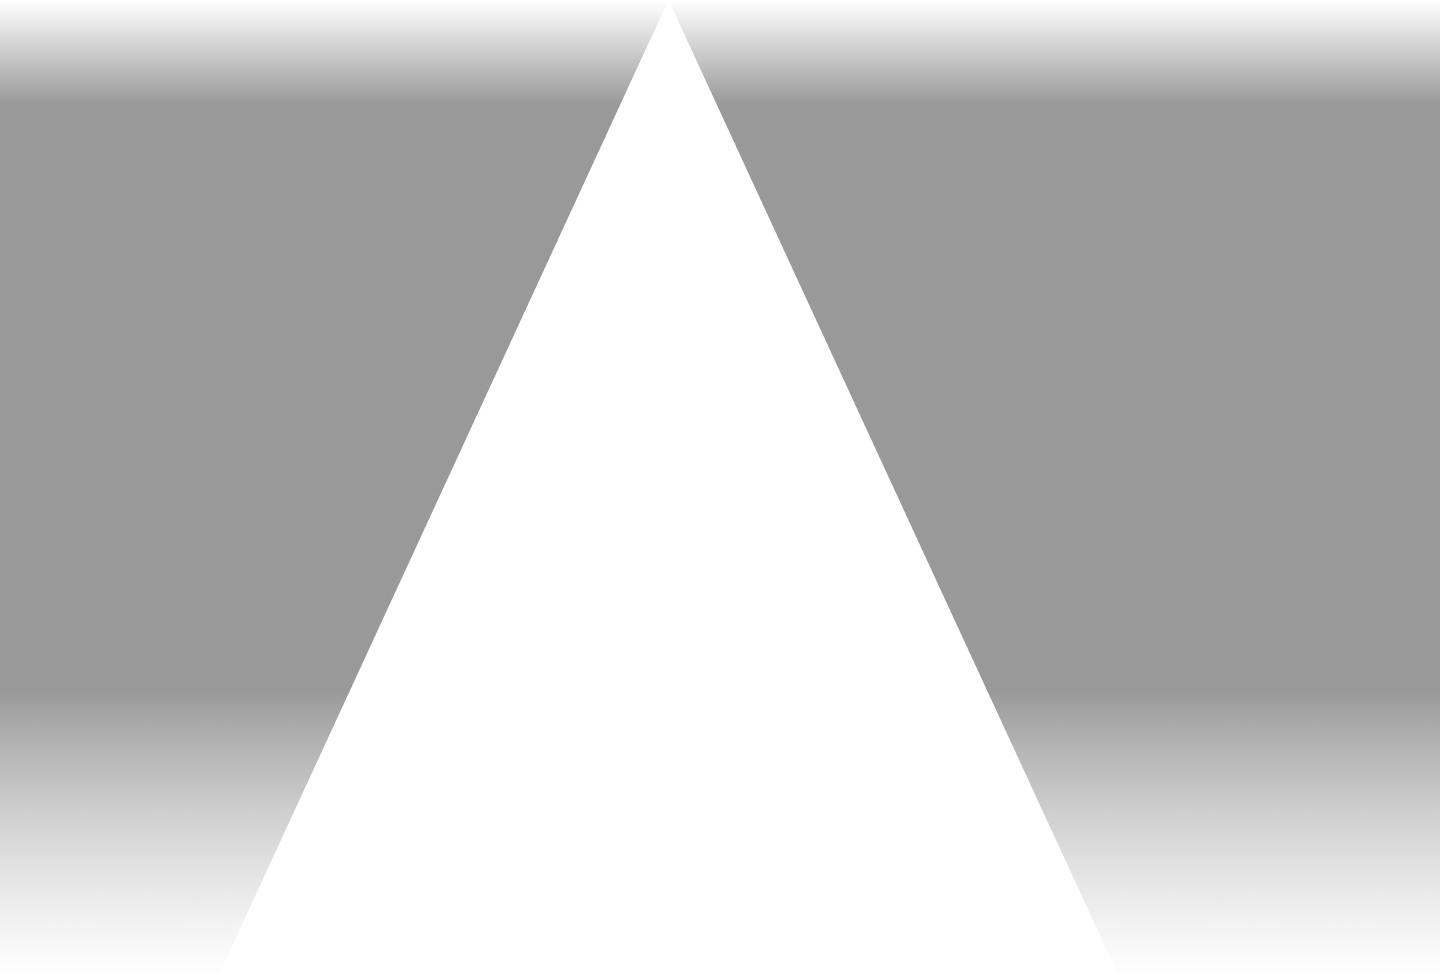
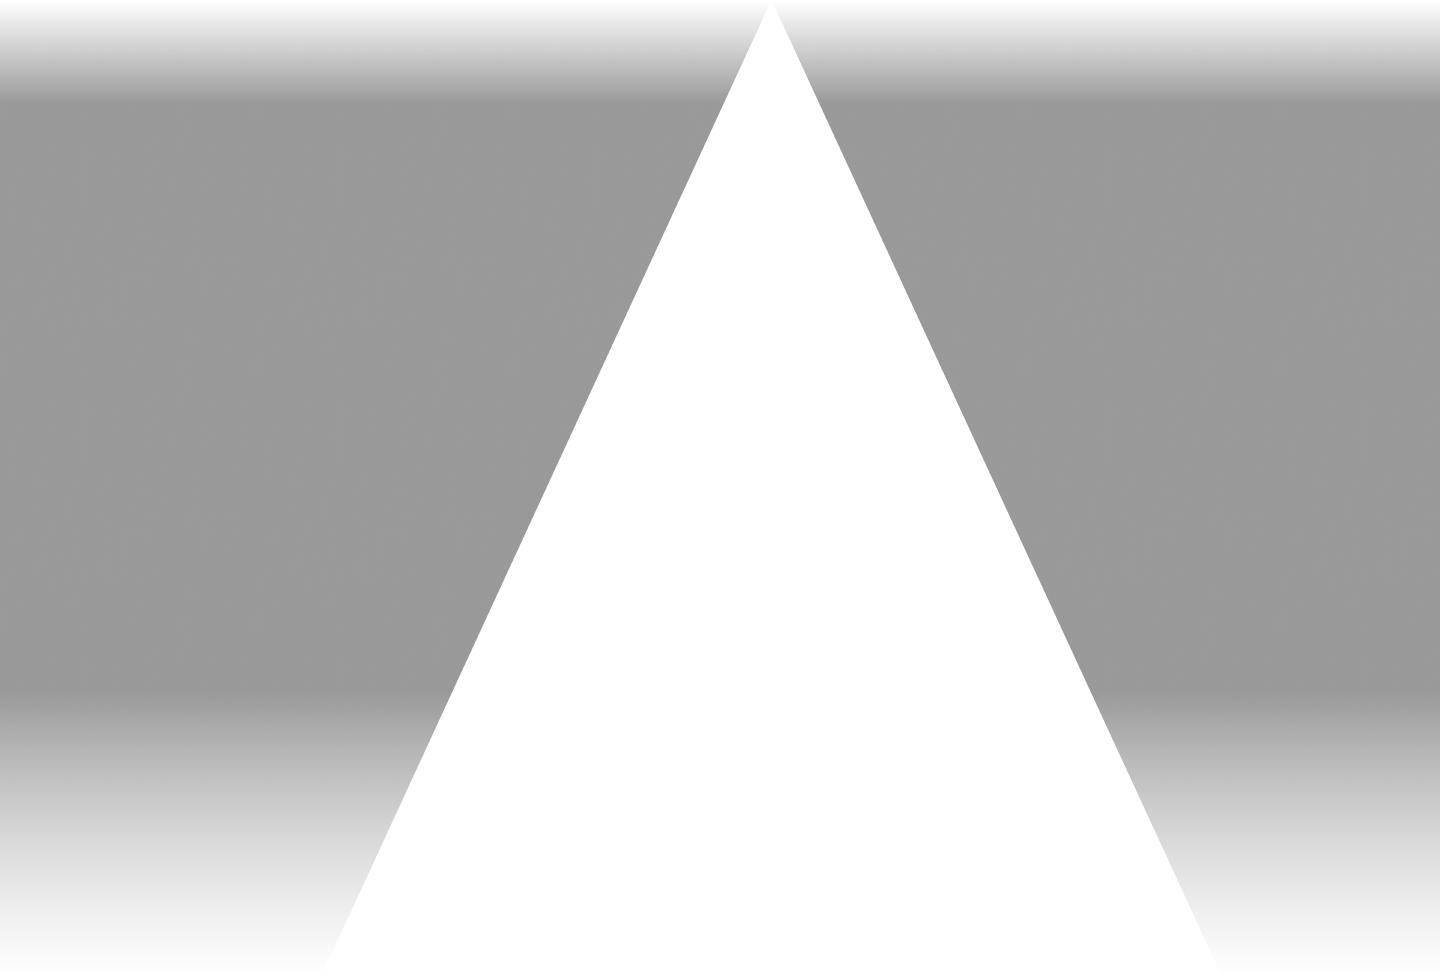
revisi

Changed region(s): [[0.1875, 0.0307, 0.8125, 0.9202]]

diff --git a/src/features/artshowcase/ArtSubmissionDesktop.jsx b/src/features/artshowcase/ArtSubmissionDesktop.jsx
@@ -32,127 +32,163 @@ export function ArtSubmissionDesktop() {
             <Navbar />
 
             {/* SECTION 1: Hero */}
-            <section className="relative w-full h-[600px] sm:h-[650px] lg:h-[700px] xl:h-[820px] pt-20 overflow-hidden">
-                {/* Elips background - mobile: smaller, centered, higher */}
-                <img
-                    src={elipsSubmission}
-                    alt=""
-                    className="sm:hidden absolute top-[200px] left-1/2 -translate-x-1/2 z-0 pointer-events-none w-[90vw] max-w-[500px] h-auto"
-                    aria-hidden="true"
-                />
+            {/*
+                Tinggi section menggunakan clamp() agar scale dengan viewport:
+                - min 480px (tablet portrait), ideal 52vw, max 860px (ultrawide)
+                Semua posisi konten juga pakai clamp(vw) agar ikut scale saat zoom.
+            */}
+            <section
+                className="relative w-full overflow-hidden"
+                style={{ height: 'clamp(560px, 60vw, 860px)' }}
+            >
+                {/* ── DESKTOP / TABLET: full-width absolute layer ─────────────
+                     Ukuran icon & posisi dikalibrasi mirip desain original:
+                     - Icon: max 850px (seperti max-w-[850px] asli)
+                     - Top icon: negatif agar karakter naik dari bawah
+                     - Font title: right-anchored, proporsional
+                ────────────────────────────────────────────────────────────── */}
+                <div className="hidden sm:block absolute inset-0 pointer-events-none">
 
-                {/* Main content container - z-10 */}
-                <div className="relative z-10 flex flex-col items-center px-4 sm:px-6 md:px-10 lg:px-14 xl:px-20">
-                    {/* Desktop absolute positioning wrapper */}
-                    <div className="hidden sm:block relative w-full max-w-[1400px] -mt-[134px] sm:-mt-[102px]">
-                        {/* Icon Title - DESKTOP: absolute left */}
+                    {/* Icon Title — kiri, besar, naik ke atas seperti original */}
+                    <motion.img
+                        src={iconTitle}
+                        alt="Art Showcase"
+                        className="absolute object-contain z-20 pointer-events-none"
+                        style={{
+                            /* original: max-w-[850px], di 1283px jadi ~850px */
+                            width: 'clamp(480px, 66vw, 850px)',
+                            /* original: -translate-y-[370px] + wrapper -mt-[102px] + pt-20 = ~-370px s/d -390px */
+                            top: 'clamp(-80px, -9vw, -200px)',
+                            left: 'clamp(-10px, -4vw, 10px)',
+                        }}
+                        initial={{ opacity: 0, y: 30 }}
+                        animate={{ opacity: 1, y: 0 }}
+                        transition={{ duration: 1, delay: 0.3, ease: 'easeOut' }}
+                    />
+
+                    {/* Elips glow — kanan belakang font title */}
+                    <div
+                        className="absolute z-10 pointer-events-none rotate-[-10deg]"
+                        style={{
+                            width: 'clamp(480px, 60vw, 1000px)',
+                            height: 'clamp(340px, 48vw, 700px)',
+                            top: 'clamp(90px, 11vw, 400px)',
+                            right: 'clamp(-40px, -3vw, -60px)',
+                            backgroundImage: `url(${elipsSubmission})`,
+                            backgroundSize: 'contain',
+                            backgroundPosition: 'center top',
+                            backgroundRepeat: 'no-repeat',
+                        }}
+                        aria-hidden="true"
+                    />
+
+                    {/* Font Title — kanan, di atas elips */}
+                    <motion.img
+                        src={fontTitle}
+                        alt="Art Exhibition Title"
+                        className="absolute object-contain pointer-events-none z-20"
+                        style={{
+                            /* original: max-w-[650px], mengisi kanan section */
+                            width: 'clamp(300px, 45vw, 650px)',
+                            top: 'clamp(100px, 15vw, 400px)',
+                            right: 'clamp(0px, 7vw, 100px)',
+                        }}
+                        initial={{ opacity: 0, y: 30 }}
+                        animate={{ opacity: 1, y: 0 }}
+                        transition={{ duration: 0.8, ease: 'easeOut' }}
+                    />
+                </div>
+
+                {/* Buttons DESKTOP — direct child section, z-40 > rumput z-30 */}
+                <div
+                    className="hidden sm:flex flex-row absolute z-40"
+                    style={{
+                        gap: 'clamp(12px, 2.5vw, 40px)',
+                        bottom: 'clamp(130px, 17vw, 260px)',
+                        right: 'clamp(60px,  10vw, 200px)',
+                    }}
+                >
+                    <a
+                        href="https://docs.google.com/forms/d/e/1FAIpQLSeBp2GRDbZgENWG2LXJGYcWW5etPctzbJANeSVd0kO34gpxzg/viewform?usp=publish-editor"
+                        target="_blank"
+                        rel="noopener noreferrer"
+                    >
                         <motion.img
-                            src={iconTitle}
-                            alt="Art Showcase"
-                            className="w-auto max-w-[850px] h-auto object-contain pointer-events-none relative z-30 absolute top-0 left-0 -translate-y-[370px] sm:-ml-[40px] md:-ml-[70px] xl:-ml-[120px]"
-                            initial={{ opacity: 0, y: 30 }}
-                            animate={{ opacity: 1, y: 0 }}
-                            transition={{ duration: 1, delay: 0.3, ease: "easeOut" }}
+                            src={buttonSubmission}
+                            alt="Submission Link"
+                            className="w-auto object-contain cursor-pointer transition-all duration-300 ease-out hover:scale-110 hover:drop-shadow-[0_0_20px_rgba(235,0,40,0.6)] active:scale-95"
+                            style={{ height: 'clamp(40px, 5vw, 70px)' }}
+                            initial={{ opacity: 0 }}
+                            animate={{ opacity: 1 }}
+                            transition={{ duration: 0.6, delay: 0.7, ease: 'easeOut' }}
                         />
+                    </a>
+                    <a
+                        href="https://drive.google.com/drive/folders/1zs-eezkSnSo6x7qJHHtm64O33nDg8yMj"
+                        target="_blank"
+                        rel="noopener noreferrer"
+                    >
+                        <motion.img
+                            src={buttonGuidebook}
+                            alt="Guidebook"
+                            className="w-auto object-contain cursor-pointer transition-all duration-300 ease-out hover:scale-110 hover:drop-shadow-[0_0_20px_rgba(235,0,40,0.6)] active:scale-95"
+                            style={{ height: 'clamp(40px, 5vw, 70px)' }}
+                            initial={{ opacity: 0 }}
+                            animate={{ opacity: 1 }}
+                            transition={{ duration: 0.6, delay: 0.8, ease: 'easeOut' }}
+                        />
+                    </a>
+                </div>
 
-                        {/* Font Title + Buttons - DESKTOP: absolute right */}
-                        <div className="flex flex-col items-start gap-4 relative z-20 absolute right-0 top-0 sm:translate-x-[240px] md:translate-x-[320px] lg:translate-x-[380px] xl:translate-x-[450px] -translate-y-[500px] w-[600px]">
-                            {/* Elips background - locked directly behind font title */}
-                            <div
-                                className="absolute -top-[75px] -left-[160px] z-0 pointer-events-none w-[1000px] h-[700px] max-h-[700px] rotate-[-10deg]"
-                                style={{
-                                    backgroundImage: `url(${elipsSubmission})`,
-                                    backgroundSize: 'contain',
-                                    backgroundPosition: 'center top',
-                                    backgroundRepeat: 'no-repeat',
-                                }}
-                                aria-hidden="true"
-                            />
-
-                            {/* Font Title */}
+                {/* ── MOBILE: stacked centered layout ───────────────────────── */}
+                <div
+                    className="sm:hidden relative z-10 flex flex-col items-center px-4"
+                    style={{ paddingTop: 'clamp(56px, 8vw, 80px)' }}
+                >
+                    {/* Elips bg mobile */}
+                    <img
+                        src={elipsSubmission}
+                        alt=""
+                        className="absolute top-[180px] left-1/2 -translate-x-1/2 z-0 pointer-events-none w-[90vw] max-w-[500px] h-auto"
+                        aria-hidden="true"
+                    />
+                    <motion.img
+                        src={fontTitle}
+                        alt="Art Exhibition Title"
+                        className="w-auto max-w-[80vw] h-auto object-contain pointer-events-none mx-auto relative z-10"
+                        initial={{ opacity: 0, y: 30 }}
+                        animate={{ opacity: 1, y: 0 }}
+                        transition={{ duration: 0.8, ease: 'easeOut' }}
+                    />
+                    <div className="flex flex-row gap-[40px] relative z-10 mt-6 w-full justify-center">
+                        <a
+                            href="https://docs.google.com/forms/d/e/1FAIpQLSeBp2GRDbZgENWG2LXJGYcWW5etPctzbJANeSVd0kO34gpxzg/viewform?usp=publish-editor"
+                            target="_blank"
+                            rel="noopener noreferrer"
+                        >
                             <motion.img
-                                src={fontTitle}
-                                alt="Art Exhibition Title"
-                                className="w-auto max-w-[650px] h-auto object-contain pointer-events-none relative z-10"
-                                initial={{ opacity: 0, y: 30 }}
-                                animate={{ opacity: 1, y: 0 }}
-                                transition={{ duration: 0.8, ease: "easeOut" }}
+                                src={buttonSubmission}
+                                alt="Submission Link"
+                                className="h-14 w-auto object-contain cursor-pointer transition-all duration-300 ease-out hover:scale-110 hover:drop-shadow-[0_0_20px_rgba(235,0,40,0.6)] active:scale-95"
+                                initial={{ opacity: 0 }}
+                                animate={{ opacity: 1 }}
+                                transition={{ duration: 0.6, delay: 0.7, ease: 'easeOut' }}
                             />
-
-                            {/* Buttons below font title */}
-                            <div className="flex flex-row gap-[40px] relative z-60 mt-[30px] sm:ml-[60px] md:ml-[120px] xl:ml-[200px]">
-                                <a
-                                    href="https://docs.google.com/forms/d/e/1FAIpQLSeBp2GRDbZgENWG2LXJGYcWW5etPctzbJANeSVd0kO34gpxzg/viewform?usp=publish-editor"
-                                    target="_blank"
-                                    rel="noopener noreferrer"
-                                >
-                                    <motion.img
-                                        src={buttonSubmission}
-                                        alt="Submission Link"
-                                        className="h-14 sm:h-16 w-auto object-contain cursor-pointer transition-all duration-300 ease-out hover:scale-110 hover:drop-shadow-[0_0_20px_rgba(235,0,40,0.6)] active:scale-95"
-                                        initial={{ opacity: 0 }}
-                                        animate={{ opacity: 1 }}
-                                        transition={{ duration: 0.6, delay: 0.7, ease: "easeOut" }}
-                                    />
-                                </a>
-                                <a
-                                    href="https://drive.google.com/drive/folders/1zs-eezkSnSo6x7qJHHtm64O33nDg8yMj"
-                                    target="_blank"
-                                    rel="noopener noreferrer"
-                                >
-                                    <motion.img
-                                        src={buttonGuidebook}
-                                        alt="Guidebook"
-                                        className="h-14 sm:h-16 w-auto object-contain cursor-pointer transition-all duration-300 ease-out hover:scale-110 hover:drop-shadow-[0_0_20px_rgba(235,0,40,0.6)] active:scale-95"
-                                        initial={{ opacity: 0 }}
-                                        animate={{ opacity: 1 }}
-                                        transition={{ duration: 0.6, delay: 0.8, ease: "easeOut" }}
-                                    />
-                                </a>
-                            </div>
-                        </div>
-
-                        {/* Font Title + Buttons - MOBILE: centered */}
-                        <div className="sm:hidden flex flex-col items-center gap-4 w-full mt-8">
+                        </a>
+                        <a
+                            href="https://drive.google.com/drive/folders/1zs-eezkSnSo6x7qJHHtm64O33nDg8yMj"
+                            target="_blank"
+                            rel="noopener noreferrer"
+                        >
                             <motion.img
-                                src={fontTitle}
-                                alt="Art Exhibition Title"
-                                className="w-auto max-w-[80vw] h-auto object-contain pointer-events-none mx-auto"
-                                initial={{ opacity: 0, y: 30 }}
-                                animate={{ opacity: 1, y: 0 }}
-                                transition={{ duration: 0.8, ease: "easeOut" }}
+                                src={buttonGuidebook}
+                                alt="Guidebook"
+                                className="h-14 w-auto object-contain cursor-pointer transition-all duration-300 ease-out hover:scale-110 hover:drop-shadow-[0_0_20px_rgba(235,0,40,0.6)] active:scale-95"
+                                initial={{ opacity: 0 }}
+                                animate={{ opacity: 1 }}
+                                transition={{ duration: 0.6, delay: 0.8, ease: 'easeOut' }}
                             />
-                            <div className="flex flex-row gap-[40px] relative z-60 mt-6 w-full justify-center">
-                                <a
-                                    href="https://docs.google.com/forms/d/e/1FAIpQLSeBp2GRDbZgENWG2LXJGYcWW5etPctzbJANeSVd0kO34gpxzg/viewform?usp=publish-editor"
-                                    target="_blank"
-                                    rel="noopener noreferrer"
-                                >
-                                    <motion.img
-                                        src={buttonSubmission}
-                                        alt="Submission Link"
-                                        className="h-14 w-auto object-contain cursor-pointer transition-all duration-300 ease-out hover:scale-110 hover:drop-shadow-[0_0_20px_rgba(235,0,40,0.6)] active:scale-95"
-                                        initial={{ opacity: 0 }}
-                                        animate={{ opacity: 1 }}
-                                        transition={{ duration: 0.6, delay: 0.7, ease: "easeOut" }}
-                                    />
-                                </a>
-                                <a
-                                    href="https://drive.google.com/drive/folders/1zs-eezkSnSo6x7qJHHtm64O33nDg8yMj"
-                                    target="_blank"
-                                    rel="noopener noreferrer"
-                                >
-                                    <motion.img
-                                        src={buttonGuidebook}
-                                        alt="Guidebook"
-                                        className="h-14 w-auto object-contain cursor-pointer transition-all duration-300 ease-out hover:scale-110 hover:drop-shadow-[0_0_20px_rgba(235,0,40,0.6)] active:scale-95"
-                                        initial={{ opacity: 0 }}
-                                        animate={{ opacity: 1 }}
-                                        transition={{ duration: 0.6, delay: 0.8, ease: "easeOut" }}
-                                    />
-                                </a>
-                            </div>
-                        </div>
+                        </a>
                     </div>
                 </div>
 
@@ -163,7 +199,7 @@ export function ArtSubmissionDesktop() {
                     className="absolute bottom-0 left-0 w-full h-auto max-h-[clamp(140px,18vw,260px)] object-cover object-top pointer-events-none z-30"
                     initial={{ opacity: 0, y: 20 }}
                     animate={{ opacity: 1, y: 0 }}
-                    transition={{ duration: 0.8, delay: 0.6, ease: "easeOut" }}
+                    transition={{ duration: 0.8, delay: 0.6, ease: 'easeOut' }}
                 />
             </section>
 

diff --git a/src/features/artshowcase/ArtSubmissionMobile.jsx b/src/features/artshowcase/ArtSubmissionMobile.jsx
@@ -135,7 +135,7 @@ export function ArtSubmissionMobile() {
                             className="w-auto max-w-[90%] h-auto object-contain mx-auto relative z-40"
                         />
                         <p
-                            className="mt-6 text-[#FFF4EA] leading-[1.5] text-left font-essays max-w-[92%] pl-[20px]"
+                            className="mt-6 text-[#FFF4EA] leading-[1.5] text-justify font-essays max-w-[92%] pl-[20px]"
                             style={{ fontSize: 'clamp(14px, 4vw, 18px)' }}
                         >
                             The Art Showcase at TEDxUniversitasAirlangga 2026 is more than just a space to display artworks. It is a place to look beyond what is visible and notice the stories, connections, and processes that quietly shape who we become.

diff --git a/src/features/sponsorship/components/SponsorshipOpenPage.jsx b/src/features/sponsorship/components/SponsorshipOpenPage.jsx
@@ -11,7 +11,7 @@ const SECTION2_RECT3 = `${CLOUDINARY_BASE_URL}/v1791570689/Rectangle_43_7.png`
 const SECTION2_ARROW = `${CLOUDINARY_BASE_URL}/v1791570686/Vector_137_1.png`
 const SECTION2_MYLO = `${CLOUDINARY_BASE_URL}/v1791570721/Aqil_mylo_kagum_1.png`
 
-const SECTION4_RECT_BG = `${CLOUDINARY_BASE_URL}/v1791567492/Rectangle_62.png`
+const SECTION4_RECT_BG = `${CLOUDINARY_BASE_URL}/v1791801957/Rectangle_62.png`
 const SECTION4_IMG1 = `${CLOUDINARY_BASE_URL}/v1791570683/Untitled_design_17_1.png`
 const SECTION4_IMG2 = `${CLOUDINARY_BASE_URL}/v1791570688/Untitled_design_18_1.png`
 const SECTION4_IMG3 = `${CLOUDINARY_BASE_URL}/v1791570690/Untitled_design_18_2.png`
